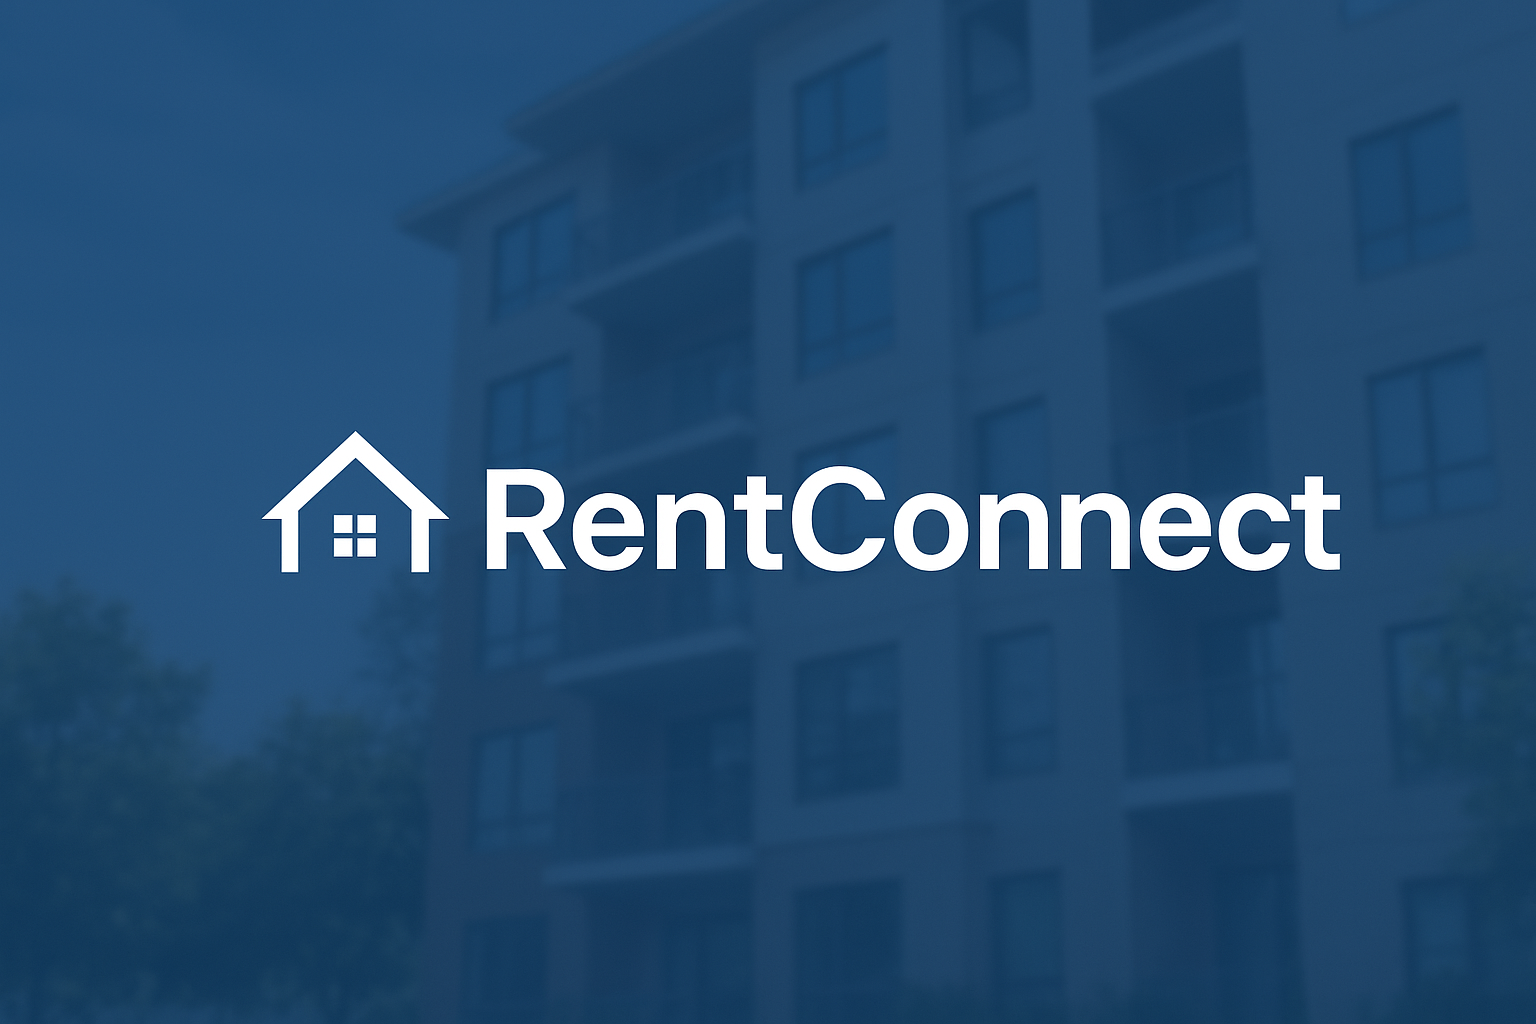
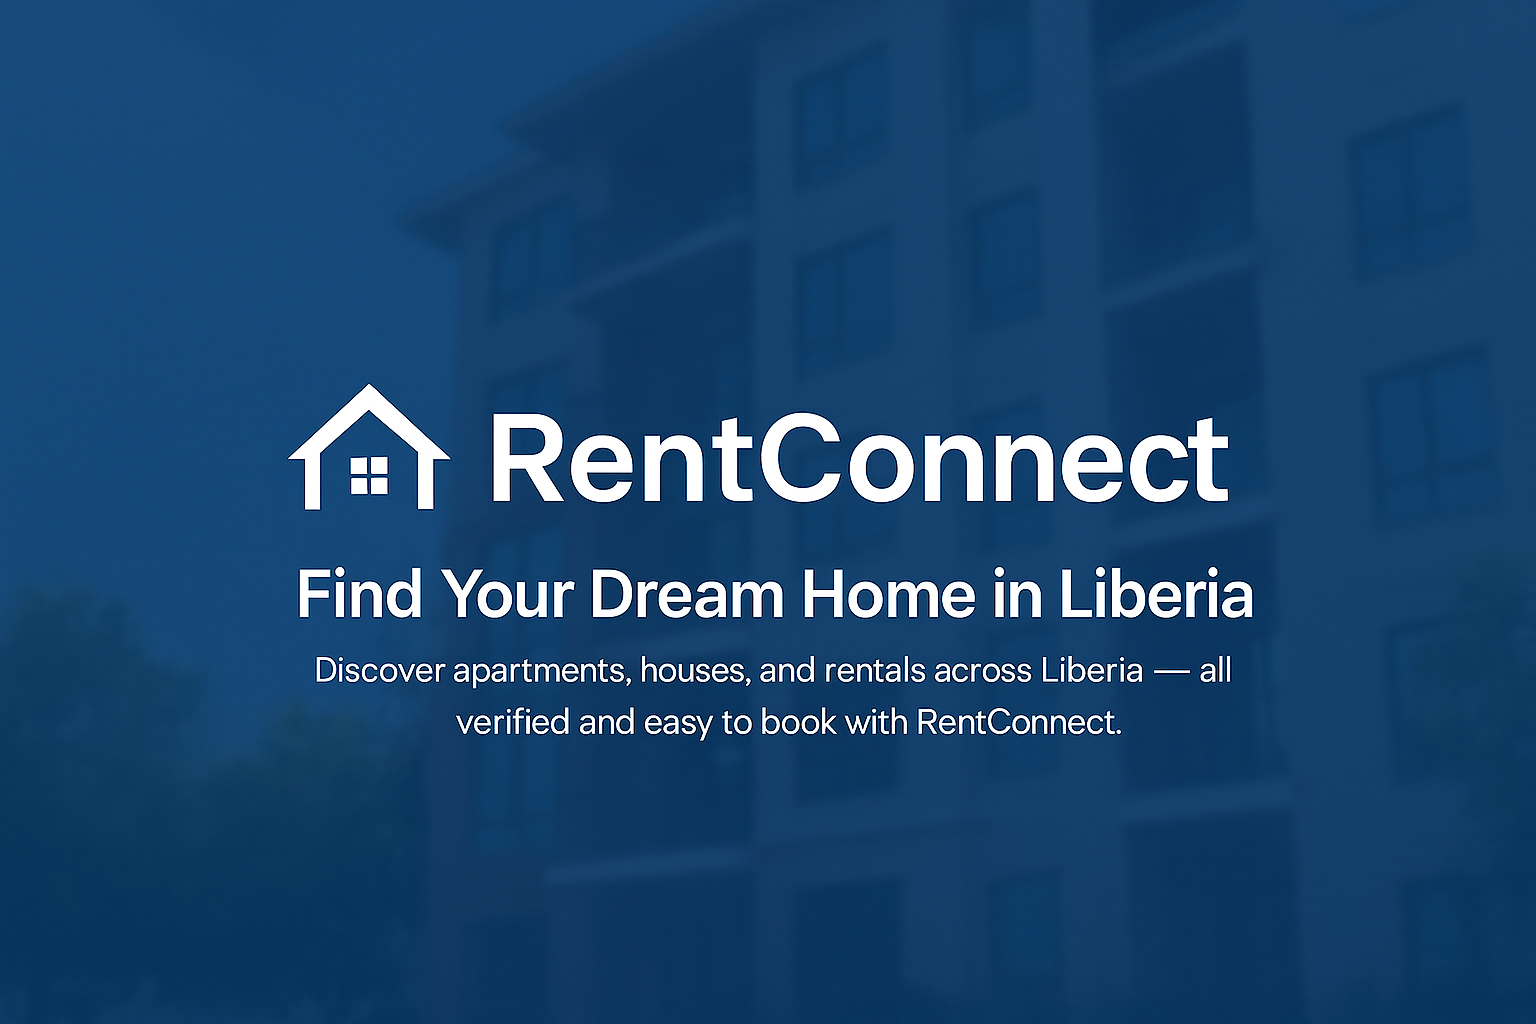
new

Changed region(s): [[0.1562, 0.375, 0.875, 0.7188]]

diff --git a/index.php b/index.php
@@ -27,8 +27,7 @@ if ($max_price > 0) {
     $params[] = $max_price;
 }
 
-$sql .= "ORDER BY created_at DESC LIMIT 6"; // latest 6 properties
-
+$sql .= "ORDER BY created_at DESC LIMIT 6";
 $stmt = $conn->prepare($sql);
 if ($types) $stmt->bind_param($types, ...$params);
 $stmt->execute();
@@ -41,80 +40,68 @@ $properties = $stmt->get_result();
     <title>RentConnect - Find Homes in Liberia</title>
     <meta name="viewport" content="width=device-width, initial-scale=1.0">
     <style>
-        body { font-family: 'Segoe UI', Tahoma, sans-serif; margin: 0; background: #f8fafc; color: #333; }
+        body { font-family: 'Segoe UI', Tahoma, sans-serif; margin: 0; background: #f9fbfd; color: #333; }
 
         /* Header */
-        header { background: linear-gradient(90deg, #4CAF50, #2E7D32); color: white; padding: 15px 20px; display: flex; justify-content: space-between; align-items: center; }
-        header h1 { margin: 0; font-size: 1.5em; }
-        nav { display: flex; gap: 15px; }
-        nav a { color: white; text-decoration: none; font-weight: bold; transition: 0.3s; }
-        nav a:hover { text-decoration: underline; }
-        
-        /* Hamburger Button */
-        .menu-toggle { display: none; font-size: 24px; cursor: pointer; }
+        header { background: white; box-shadow: 0 2px 6px rgba(0,0,0,0.1); padding: 15px 20px; display: flex; justify-content: space-between; align-items: center; position: sticky; top: 0; z-index: 1000; }
+        header h1 { margin: 0; font-size: 1.5em; color: #2E7D32; }
+        nav { display: flex; gap: 20px; }
+        nav a { color: #333; text-decoration: none; font-weight: bold; transition: 0.3s; }
+        nav a:hover { color: #2E7D32; }
+        .menu-toggle { display: none; font-size: 26px; cursor: pointer; }
+
+        /* Mobile Nav */
         .mobile-nav { display: none; flex-direction: column; background: #2E7D32; padding: 10px; }
-        .mobile-nav a { padding: 10px; color: white; border-top: 1px solid rgba(255,255,255,0.2); }
+        .mobile-nav a { padding: 12px; color: white; border-bottom: 1px solid rgba(255,255,255,0.2); }
 
-        /* Hero Section */
+        /* Hero */
         .hero { 
-            background: url('images/home-bg.jpg') no-repeat center center/cover; 
-            color: white; 
-            text-align: center; 
-            padding: 90px 20px; 
-            position: relative; 
+            background: linear-gradient(rgba(0,0,0,0.6),rgba(0,0,0,0.6)), url('images/home-bg.png') center/cover no-repeat;
+            color: white; text-align: center; padding: 120px 20px 180px;
         }
-        .hero::after { content: ""; position: absolute; inset: 0; background: rgba(0,0,0,0.5); }
-        .hero h2, .hero p, .hero .buttons { position: relative; z-index: 2; }
-        .hero h2 { font-size: 2.5em; margin-bottom: 15px; }
-        .hero p { font-size: 1.2em; max-width: 600px; margin: auto; }
-        .hero .buttons { margin-top: 25px; display: flex; flex-wrap: wrap; justify-content: center; gap: 15px; }
-        .hero a { padding: 12px 25px; border-radius: 30px; color: white; text-decoration: none; font-size: 1em; transition: 0.3s; }
-        .hero a.signup { background: #FF9800; }
-        .hero a.login { background: #2196F3; }
-        .hero a:hover { opacity: 0.9; }
+        .hero h2 { font-size: 2.8em; margin-bottom: 15px; }
+        .hero p { font-size: 1.2em; max-width: 650px; margin: auto; }
 
-        /* Sections */
-        .section { padding: 50px 20px; text-align: center; }
-        .section h3 { font-size: 1.8em; margin-bottom: 30px; color: #2E7D32; }
-
-        /* Features */
-        .features { display: flex; justify-content: center; gap: 30px; flex-wrap: wrap; }
-        .feature { background: white; padding: 20px; border-radius: 12px; width: 300px; box-shadow: 0 6px 14px rgba(0,0,0,0.1); transition: 0.3s; }
-        .feature:hover { transform: translateY(-5px); }
-        .feature h4 { margin-bottom: 15px; color: #2196F3; }
-
-        /* Search */
-        .search-box { background: white; padding: 20px; border-radius: 12px; width: 90%; max-width: 800px; margin: 30px auto; box-shadow: 0 4px 12px rgba(0,0,0,0.1); }
+        /* Floating Search */
+        .search-box { 
+            background: white; padding: 25px; border-radius: 16px; width: 90%; max-width: 900px; 
+            margin: -80px auto 40px; box-shadow: 0 6px 20px rgba(0,0,0,0.1); 
+        }
         .search-box form { display: flex; gap: 15px; flex-wrap: wrap; justify-content: center; }
-        .search-box input { padding: 12px; border: 1px solid #ccc; border-radius: 8px; flex: 1 1 150px; }
-        .search-box button { padding: 12px 25px; background: #4CAF50; color: white; border: none; border-radius: 8px; cursor: pointer; font-weight: bold; transition: 0.3s; }
-        .search-box button:hover { background: #388E3C; }
+        .search-box input { padding: 12px; border: 1px solid #ddd; border-radius: 10px; flex: 1 1 160px; font-size: 1em; }
+        .search-box button { padding: 12px 25px; background: #2E7D32; color: white; border: none; border-radius: 10px; font-weight: bold; cursor: pointer; transition: 0.3s; }
+        .search-box button:hover { background: #1b5e20; }
 
         /* Properties */
-        .properties { display: flex; flex-wrap: wrap; justify-content: center; gap: 20px; margin-top: 30px; }
-        .property { background: white; padding: 15px; border-radius: 12px; width: 100%; max-width: 300px; box-shadow: 0 6px 14px rgba(0,0,0,0.1); transition: 0.3s; }
+        .section { padding: 50px 20px; text-align: center; }
+        .section h3 { font-size: 1.8em; margin-bottom: 25px; color: #2E7D32; }
+        .properties { display: flex; flex-wrap: wrap; justify-content: center; gap: 25px; }
+        .property { background: white; border-radius: 14px; box-shadow: 0 6px 14px rgba(0,0,0,0.1); width: 100%; max-width: 300px; transition: 0.3s; overflow: hidden; }
         .property:hover { transform: translateY(-5px); }
-        .property img { width: 100%; height: 180px; object-fit: cover; border-radius: 8px; }
-        .property h4 { margin: 10px 0; color: #333; }
-        .property p { margin: 5px 0; color: #555; }
-        .property a { display: block; text-align: center; margin-top: 10px; padding: 10px 18px; background: #2196F3; color: white; border-radius: 8px; text-decoration: none; transition: 0.3s; }
+        .property img { width: 100%; height: 190px; object-fit: cover; }
+        .property .content { padding: 15px; text-align: left; }
+        .property h4 { margin: 0 0 8px; color: #222; }
+        .property p { margin: 4px 0; color: #555; font-size: 0.95em; }
+        .property a { display: block; text-align: center; margin-top: 12px; padding: 10px; background: #2196F3; color: white; border-radius: 8px; text-decoration: none; font-weight: bold; transition: 0.3s; }
         .property a:hover { background: #1565C0; }
 
+        /* Features */
+        .features { display: flex; justify-content: center; gap: 30px; flex-wrap: wrap; margin-top: 30px; }
+        .feature { background: white; padding: 25px; border-radius: 12px; width: 280px; box-shadow: 0 6px 14px rgba(0,0,0,0.1); text-align: left; }
+        .feature h4 { margin-bottom: 12px; color: #2196F3; }
+
         /* Footer */
-        footer { background: #333; color: white; text-align: center; padding: 20px; margin-top: 40px; }
+        footer { background: #222; color: #ccc; text-align: center; padding: 25px; margin-top: 50px; }
         footer a { color: #FF9800; text-decoration: none; }
 
-        /* 🔹 Responsive */
+        /* Responsive */
         @media (max-width: 768px) {
             nav { display: none; }
             .menu-toggle { display: block; }
-            .hero h2 { font-size: 2em; }
         }
         @media (max-width: 480px) {
-            .hero { padding: 70px 15px; }
-            .hero h2 { font-size: 1.6em; }
+            .hero h2 { font-size: 2em; }
             .search-box form { flex-direction: column; }
-            .properties { flex-direction: column; align-items: center; }
             .property { width: 90%; }
         }
     </style>
@@ -129,47 +116,47 @@ $properties = $stmt->get_result();
         <a href="signup.php">Sign Up</a>
         <a href="login.php">Login</a>
         <a href="contact.php">Contact</a>
+        <a href="upload_property.php">Upload Property</a>
     </nav>
 </header>
 
-<!-- Mobile Menu -->
+<!-- Mobile Nav -->
 <div class="mobile-nav" id="mobileNav">
     <a href="index.php">Home</a>
     <a href="signup.php">Sign Up</a>
     <a href="login.php">Login</a>
     <a href="contact.php">Contact</a>
+    <a href="upload_property.php">Upload Property</a>
 </div>
 
 <section class="hero">
-    <h2>Find Your Dream Home in Liberia</h2>
-    <p>RentConnect connects renters with landlords across Liberia.  
-       Search homes, apartments, and rentals — all in one place.</p>
-    <div class="buttons">
-        <a href="signup.php" class="signup">Get Started</a>
-        <a href="login.php" class="login">Login</a>
-    </div>
+    
 </section>
+<br>
+<br>
+<!-- Floating Search -->
+<div class="search-box">
+    <form method="get" action="">
+        <input type="text" name="location" placeholder="Enter location" value="<?php echo htmlspecialchars($search_location); ?>">
+        <input type="number" name="min_price" placeholder="Min Price" value="<?php echo $min_price ?: ''; ?>">
+        <input type="number" name="max_price" placeholder="Max Price" value="<?php echo $max_price ?: ''; ?>">
+        <button type="submit">🔍 Search</button>
+    </form>
+</div>
 
 <section class="section">
-    <h3>Search Properties</h3>
-    <div class="search-box">
-        <form method="get" action="">
-            <input type="text" name="location" placeholder="Enter location" value="<?php echo htmlspecialchars($search_location); ?>">
-            <input type="number" name="min_price" placeholder="Min Price" value="<?php echo $min_price ?: ''; ?>">
-            <input type="number" name="max_price" placeholder="Max Price" value="<?php echo $max_price ?: ''; ?>">
-            <button type="submit">Search</button>
-        </form>
-    </div>
-
+    <h3>Latest Properties</h3>
     <div class="properties">
         <?php if ($properties->num_rows > 0): ?>
             <?php while($row = $properties->fetch_assoc()): ?>
                 <div class="property">
                     <img src="uploads/<?php echo htmlspecialchars($row['photo']); ?>" alt="Property">
-                    <h4><?php echo htmlspecialchars($row['title']); ?></h4>
-                    <p>📍 <?php echo htmlspecialchars($row['location']); ?></p>
-                    <p>💲 $<?php echo number_format($row['price']); ?></p>
-                    <a href="login.php">View Details</a>
+                    <div class="content">
+                        <h4><?php echo htmlspecialchars($row['title']); ?></h4>
+                        <p>📍 <?php echo htmlspecialchars($row['location']); ?></p>
+                        <p>💲 $<?php echo number_format($row['price']); ?></p>
+                        <a href="login.php">View Details</a>
+                    </div>
                 </div>
             <?php endwhile; ?>
         <?php else: ?>
@@ -183,18 +170,15 @@ $properties = $stmt->get_result();
     <div class="features">
         <div class="feature">
             <h4>For Renters</h4>
-            <p>Browse verified homes and apartments in Liberia.  
-            Save favorites, send rental requests, and track approvals in your dashboard.</p>
+            <p>Browse verified homes and apartments, save favorites, and send rental requests securely.</p>
         </div>
         <div class="feature">
             <h4>For Landlords</h4>
-            <p>Upload property details with photos, location, and price.  
-            Manage rental requests from potential tenants quickly and easily.</p>
+            <p>Upload property listings with photos and manage rental requests from your dashboard.</p>
         </div>
         <div class="feature">
             <h4>Secure & Easy</h4>
-            <p>Simple signup, secure login, and clear dashboards for both renters and landlords.  
-            Rent smarter with RentConnect.</p>
+            <p>Simple signup, safe login, and streamlined dashboards for renters and landlords.</p>
         </div>
     </div>
 </section>

diff --git a/add_property.php b/add_property.php
@@ -12,25 +12,39 @@ $message = "";
 
 if ($_SERVER['REQUEST_METHOD'] == 'POST') {
     $title = $_POST['title'];
-    $location = $_POST['location'];
+    $address = $_POST['address'];
     $price = $_POST['price'];
     $contact = $_POST['contact'];
+    $bedrooms = $_POST['bedrooms'];
+    $bathrooms = $_POST['bathrooms'];
+    $description = $_POST['description'];
 
     if (isset($_FILES['photo']) && $_FILES['photo']['error'] == 0) {
-        $image_name = time() . '_' . basename($_FILES['photo']['name']);
-        $target_dir = "uploads/";
-        $target_file = $target_dir . $image_name;
+        // store as BLOB
+        $imageData = file_get_contents($_FILES['photo']['tmp_name']);
 
-        if (move_uploaded_file($_FILES['photo']['tmp_name'], $target_file)) {
-            $stmt = $conn->prepare("INSERT INTO properties (title, location, price, contact, photo, owner_id) VALUES (?, ?, ?, ?, ?, ?)");
-            $stmt->bind_param("ssdssi", $title, $location, $price, $contact, $image_name, $landlord_id);
-            $stmt->execute();
+        $stmt = $conn->prepare("INSERT INTO properties 
+            (title, address, price, contact, bedrooms, bathrooms, description, photo_blob, owner_id) 
+            VALUES (?, ?, ?, ?, ?, ?, ?, ?, ?)");
+        $stmt->bind_param("ssdsiissi", 
+            $title, 
+            $address, 
+            $price, 
+            $contact, 
+            $bedrooms, 
+            $bathrooms, 
+            $description, 
+            $imageData, 
+            $landlord_id
+        );
+
+        if ($stmt->execute()) {
             $message = "✅ Property uploaded successfully!";
         } else {
-            $message = "❌ Failed to upload image.";
+            $message = "❌ Database error: " . $stmt->error;
         }
     } else {
-        $message = "❌ Please select an image.";
+        $message = "❌ Please upload an image.";
     }
 }
 ?>
@@ -41,9 +55,10 @@ if ($_SERVER['REQUEST_METHOD'] == 'POST') {
     <title>Upload Property - RentConnect</title>
     <style>
         body { font-family: Arial; background:#f4f6f9; display:flex; justify-content:center; align-items:center; height:100vh; }
-        .form-box { background:white; padding:30px; border-radius:10px; width:400px; box-shadow:0 4px 12px rgba(0,0,0,0.1); }
+        .form-box { background:white; padding:30px; border-radius:10px; width:420px; box-shadow:0 4px 12px rgba(0,0,0,0.1); }
         h2 { text-align:center; color:#4CAF50; }
-        input { width:100%; padding:10px; margin:10px 0; border-radius:5px; border:1px solid #ccc; }
+        input, textarea { width:100%; padding:10px; margin:10px 0; border-radius:5px; border:1px solid #ccc; }
+        textarea { height:80px; resize:none; }
         button { width:100%; padding:12px; background:#4CAF50; color:white; border:none; border-radius:5px; cursor:pointer; font-size:1.1em; }
         button:hover { background:#43a047; }
         .message { text-align:center; color:red; }
@@ -56,9 +71,12 @@ if ($_SERVER['REQUEST_METHOD'] == 'POST') {
         <?php if($message) echo "<p class='message'>$message</p>"; ?>
         <form method="post" enctype="multipart/form-data">
             <input type="text" name="title" placeholder="Property Title" required>
-            <input type="text" name="location" placeholder="Location" required>
+            <input type="text" name="address" placeholder="Address" required>
             <input type="number" step="0.01" name="price" placeholder="Price (USD)" required>
             <input type="text" name="contact" placeholder="Contact Info" required>
+            <input type="number" name="bedrooms" placeholder="Number of Bedrooms">
+            <input type="number" name="bathrooms" placeholder="Number of Bathrooms">
+            <textarea name="description" placeholder="Property Description"></textarea>
             <input type="file" name="photo" accept="image/*" required>
             <button type="submit">Upload Property</button>
         </form>

diff --git a/upload_property.php b/upload_property.php
@@ -1,0 +1,67 @@
+<?php
+session_start();
+include "db.php";
+
+// Check if landlord is logged in (optional)
+if (!isset($_SESSION['user_id'])) {
+    header("Location: login.php");
+    exit;
+}
+
+$message = "";
+if ($_SERVER["REQUEST_METHOD"] == "POST") {
+    $title = $_POST['title'];
+    $location = $_POST['location'];
+    $price = $_POST['price'];
+
+    // Handle photo upload
+    $photo = $_FILES['photo']['name'];
+    $target_dir = "uploads/";
+    $target_file = $target_dir . basename($photo);
+
+    if (move_uploaded_file($_FILES['photo']['tmp_name'], $target_file)) {
+        $stmt = $conn->prepare("INSERT INTO properties (title, location, price, photo, created_at) VALUES (?, ?, ?, ?, NOW())");
+        $stmt->bind_param("ssds", $title, $location, $price, $photo);
+
+        if ($stmt->execute()) {
+            $message = "✅ Property uploaded successfully!";
+        } else {
+            $message = "❌ Error: " . $stmt->error;
+        }
+    } else {
+        $message = "❌ Failed to upload photo.";
+    }
+}
+?>
+
+<!DOCTYPE html>
+<html>
+<head>
+    <title>Upload Property - RentConnect</title>
+    <style>
+        body { font-family: Arial, sans-serif; background: #f8fafc; margin: 0; padding: 0; }
+        .container { max-width: 600px; margin: 40px auto; padding: 20px; background: white; border-radius: 10px; box-shadow: 0 4px 10px rgba(0,0,0,0.1); }
+        h2 { color: #2E7D32; text-align: center; }
+        form { display: flex; flex-direction: column; gap: 15px; }
+        input, button { padding: 12px; border: 1px solid #ccc; border-radius: 8px; }
+        button { background: #4CAF50; color: white; font-weight: bold; cursor: pointer; transition: 0.3s; }
+        button:hover { background: #388E3C; }
+        .message { text-align: center; font-weight: bold; margin-bottom: 15px; }
+    </style>
+</head>
+<body>
+    <div class="container">
+        <h2>Upload New Property</h2>
+        <?php if ($message): ?>
+            <p class="message"><?php echo $message; ?></p>
+        <?php endif; ?>
+        <form method="post" enctype="multipart/form-data">
+            <input type="text" name="title" placeholder="Property Title" required>
+            <input type="text" name="location" placeholder="Location" required>
+            <input type="number" name="price" placeholder="Price (USD)" required>
+            <input type="file" name="photo" accept="image/*" required>
+            <button type="submit">Upload Property</button>
+        </form>
+    </div>
+</body>
+</html>
